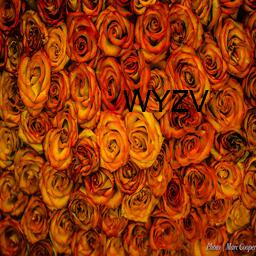
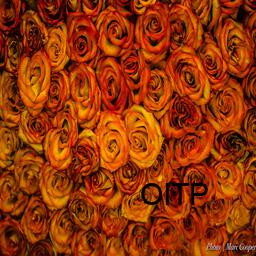
fix smoothing

Changed region(s): [[0.4688, 0.3125, 0.8438, 0.4375], [0.5312, 0.6875, 0.8125, 0.8125], [0.5, 0.6875, 0.5312, 0.7188]]

diff --git a/inpainting.py b/inpainting.py
@@ -46,14 +46,46 @@ def drawText(filepath, fontsize, text,target_size,color):
     #draw input for model 2
     return image,(int(x0),int(y0),int(x1),int(y1))
 
+def getNeighbors(r, c, buffer):
+    neighbors = [(r - buffer, c - buffer), (r - buffer, c), (r - buffer, c + buffer), (r, c - buffer),
+                 (r, c + buffer), (r + buffer, c - buffer), (r + buffer, c), (r + buffer, c + buffer)]
+    section = []
+    for neighbor in neighbors:
+        nR, nC = neighbor
+        if nR >= 0 and nR < 256 and nC >= 0 and nC < 256:
+            section.append([nR, nC])
+    return section
+
 def smooth(rgb_with_text, gray_detected_text):
     detectedPixels = []
     for r in range(256):
         for c in range(256):
             if gray_detected_text[r, c] > 0.90:
                 detectedPixels.append([r, c])
-                print([r, c])
-    dP = np.array(detectedPixels)
+    length = len(detectedPixels)
+    for i in range(length):
+        neighbors = getNeighbors(detectedPixels[i][0], detectedPixels[i][1], 1)
+        for neighbor in neighbors:
+            if neighbor not in detectedPixels:
+                detectedPixels.append(neighbor)
+
+    for loc in detectedPixels:
+        neighbors = getNeighbors(loc[0], loc[1], 3)
+        averagedPixel = [0, 0, 0]
+        numPixels = 0
+        for neighbor in neighbors:
+            if neighbor not in detectedPixels:
+                averagedPixel[0] += rgb_with_text[neighbor[0]][neighbor[1]][0]
+                averagedPixel[1] += rgb_with_text[neighbor[0]][neighbor[1]][1]
+                averagedPixel[2] += rgb_with_text[neighbor[0]][neighbor[1]][2]
+                numPixels += 1
+        if numPixels > 0:
+            averagedPixel[0] /= numPixels
+            averagedPixel[1] /= numPixels
+            averagedPixel[2] /= numPixels
+            rgb_with_text[loc[0]][loc[1]] = averagedPixel
+
+    '''        
     for loc in detectedPixels:
         r, c = loc[0], loc[1]
         average = [0, 0, 0]
@@ -103,6 +135,7 @@ def smooth(rgb_with_text, gray_detected_text):
             average[1] /= weight
             average[2] /= weight
             rgb_with_text[r, c] = average
+    '''
     return rgb_with_text
 #initialization variables
 target_size = (256,256)
